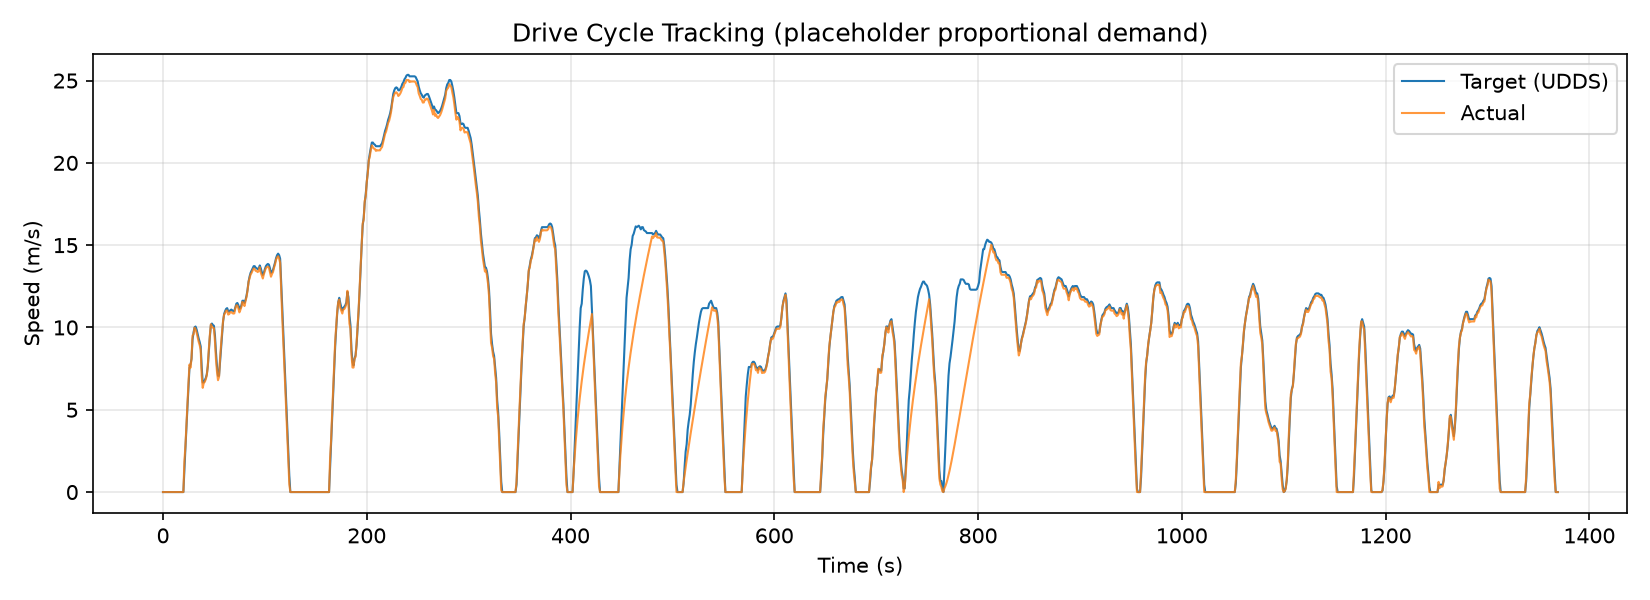
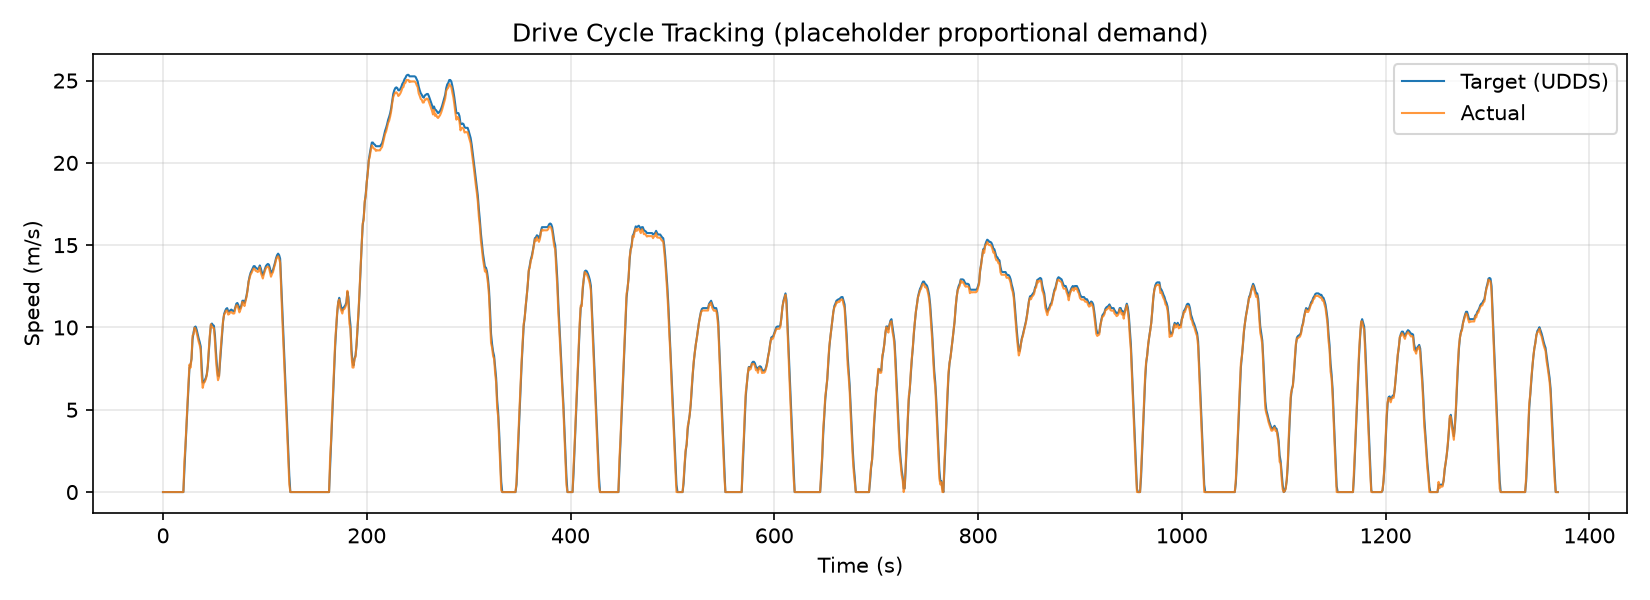
Wire torque split controller into simulation; add EV vs blended scenario comparison plot

Changed region(s): [[0.34, 0.39, 0.4636, 0.75], [0.5255, 0.48, 0.5873, 0.81], [0.5873, 0.42, 0.6182, 0.48]]

diff --git a/sim/run_sim.py b/sim/run_sim.py
@@ -5,6 +5,8 @@ from pathlib import Path
 from plant.battery import Battery
 from plant.motor import Motor
 from plant.vehicle import Vehicle
+from plant.engine import Engine
+from controller.torque_split import TorqueSplitController
 
 
 
@@ -20,42 +22,43 @@ def load_drive_cycle(path: Path) -> list[tuple[float, float]]:
             rows.append((float(row["time_s"]), float(row["speed_mps"])))
     return rows
 
-def run_simulation(drive_cycle, dt=1.0):
-    battery = Battery()
+def run_simulation(drive_cycle, dt=1.0, initial_soc=0.7):
+    battery = Battery(initial_soc=initial_soc)
     motor = Motor()
     vehicle = Vehicle()
+    engine = Engine()
+    controller = TorqueSplitController()
 
     results = []
 
     for time_s, target_speed_mps in drive_cycle:
-        # PLACEHOLDER driver demand: proportional to speed error.
         speed_error = target_speed_mps - vehicle.speed_ms
+        total_torque_demand = speed_error * 150
 
-        # Estimate motor speed from vehicle speed BEFORE using it below
+        engine_torque_cmd, motor_torque_cmd = controller.split_torque(
+            total_torque_demand, battery.soc
+        )
+
+        actual_engine_torque = engine.command_torque(engine_torque_cmd)
+
         wheel_speed_approx = vehicle.speed_ms / vehicle.WHEEL_RADIUS_M
         motor_speed_approx = wheel_speed_approx * vehicle.FINAL_DRIVE_RATIO
 
-        motor_torque_cmd = speed_error * 150
-        motor_torque_cmd = max(motor.min_available_torque(motor_speed_approx), motor_torque_cmd)
-        motor_torque_cmd = min(motor_torque_cmd, motor.MAX_TORQUE_NM)
-
-        # Motor: check what's actually available (torque-speed curve + thermal)
         available_torque = motor.max_available_torque(motor_speed_approx)
         min_torque = motor.min_available_torque(motor_speed_approx)
         actual_motor_torque = max(min_torque, min(motor_torque_cmd, available_torque))
 
-        # Battery: does it have enough power to deliver this torque?
         power_needed_w = actual_motor_torque * motor_speed_approx
         power_delivered_w = battery.update(power_needed_w, dt)
 
-        # If battery couldn't deliver full power, scale torque down proportionally
         if power_needed_w > 0:
             power_ratio = power_delivered_w / power_needed_w
             actual_motor_torque *= power_ratio
 
         motor.update_temp(actual_motor_torque, dt)
 
-        wheel_torque = vehicle.motor_torque_to_wheel_torque(actual_motor_torque)
+        total_actual_torque = actual_engine_torque + actual_motor_torque
+        wheel_torque = vehicle.motor_torque_to_wheel_torque(total_actual_torque)
         actual_speed = vehicle.update(wheel_torque, dt)
 
         results.append({
@@ -64,6 +67,8 @@ def run_simulation(drive_cycle, dt=1.0):
             "actual_speed_mps": actual_speed,
             "soc": battery.soc,
             "motor_temp_c": motor.temp_c,
+            "engine_torque_nm": actual_engine_torque,
+            "motor_torque_nm": actual_motor_torque,
         })
 
     return results
@@ -75,32 +80,48 @@ if __name__ == "__main__":
     print(f"First: {drive_cycle[0]}")
     print(f"Last: {drive_cycle[-1]}")
 
-    battery = Battery()
-    motor = Motor()
-    vehicle = Vehicle()
-    results = run_simulation(drive_cycle)
-    print(f"\nRan simulation for {len(results)} steps")
-    print(f"Final SOC: {results[-1]['soc']:.4f}")
-    print(f"Final motor temp: {results[-1]['motor_temp_c']:.1f} C")
-    print(f"\nFirst 5 steps:")
-    for r in results[:5]:
-        print(r)
 
-    times = [r["time_s"] for r in results]
-    targets = [r["target_speed_mps"] for r in results]
-    actuals = [r["actual_speed_mps"] for r in results]
+    print("\nRunning EV-priority scenario (SOC=0.70)...")
+    results_ev = run_simulation(drive_cycle, initial_soc=0.70)
+    print(f"Final SOC: {results_ev[-1]['soc']:.4f} | Final motor temp: {results_ev[-1]['motor_temp_c']:.1f} C")
 
-    plt.figure(figsize=(11, 4))
-    plt.plot(times, targets, label="Target (UDDS)", linewidth=1)
-    plt.plot(times, actuals, label="Actual", linewidth=1, alpha=0.8)
-    plt.xlabel("Time (s)")
-    plt.ylabel("Speed (m/s)")
-    plt.title("Drive Cycle Tracking (placeholder proportional demand)")
-    plt.legend()
-    plt.grid(True, alpha=0.3)
+    print("\nRunning blended/engine-priority scenario (SOC=0.25)...")
+    results_blend = run_simulation(drive_cycle, initial_soc=0.25)
+    print(f"Final SOC: {results_blend[-1]['soc']:.4f} | Final motor temp: {results_blend[-1]['motor_temp_c']:.1f} C")
+
+    times = [r["time_s"] for r in results_ev]
+
+    fig, axes = plt.subplots(3, 1, figsize=(11, 10), sharex=True)
+
+    # Top: speed tracking (using the EV scenario as representative)
+    axes[0].plot(times, [r["target_speed_mps"] for r in results_ev], label="Target (UDDS)", linewidth=1)
+    axes[0].plot(times, [r["actual_speed_mps"] for r in results_ev], label="Actual", linewidth=1, alpha=0.8)
+    axes[0].set_ylabel("Speed (m/s)")
+    axes[0].set_title("Drive Cycle Tracking")
+    axes[0].legend()
+    axes[0].grid(True, alpha=0.3)
+
+    # Middle: SOC comparison between scenarios
+    axes[1].plot(times, [r["soc"] for r in results_ev], label="Start SOC=0.70 (EV-priority)")
+    axes[1].plot(times, [r["soc"] for r in results_blend], label="Start SOC=0.25 (blended)")
+    axes[1].axhline(0.30, color="gray", linestyle="--", linewidth=1, label="SOC_HIGH_THRESHOLD")
+    axes[1].axhline(0.15, color="black", linestyle="--", linewidth=1, label="SOC_LOW_THRESHOLD")
+    axes[1].set_ylabel("SOC")
+    axes[1].set_title("Battery SOC vs. Time, by Starting Condition")
+    axes[1].legend(fontsize=8)
+    axes[1].grid(True, alpha=0.3)
+
+    # Bottom: engine vs motor torque split, blended scenario only
+    axes[2].plot(times, [r["engine_torque_nm"] for r in results_blend], label="Engine torque")
+    axes[2].plot(times, [r["motor_torque_nm"] for r in results_blend], label="Motor torque", alpha=0.8)
+    axes[2].set_ylabel("Torque (Nm)")
+    axes[2].set_xlabel("Time (s)")
+    axes[2].set_title("Engine/Motor Torque Split (blended scenario, SOC=0.25 start)")
+    axes[2].legend()
+    axes[2].grid(True, alpha=0.3)
+
     plt.tight_layout()
 
-    from pathlib import Path
-    plot_path = Path(__file__).parent.parent / "data" / "sim_tracking.png"
+    plot_path = Path(__file__).parent.parent / "data" / "sim_full_results.png"
     plt.savefig(plot_path, dpi=150)
     print(f"\nPlot saved to {plot_path}")
